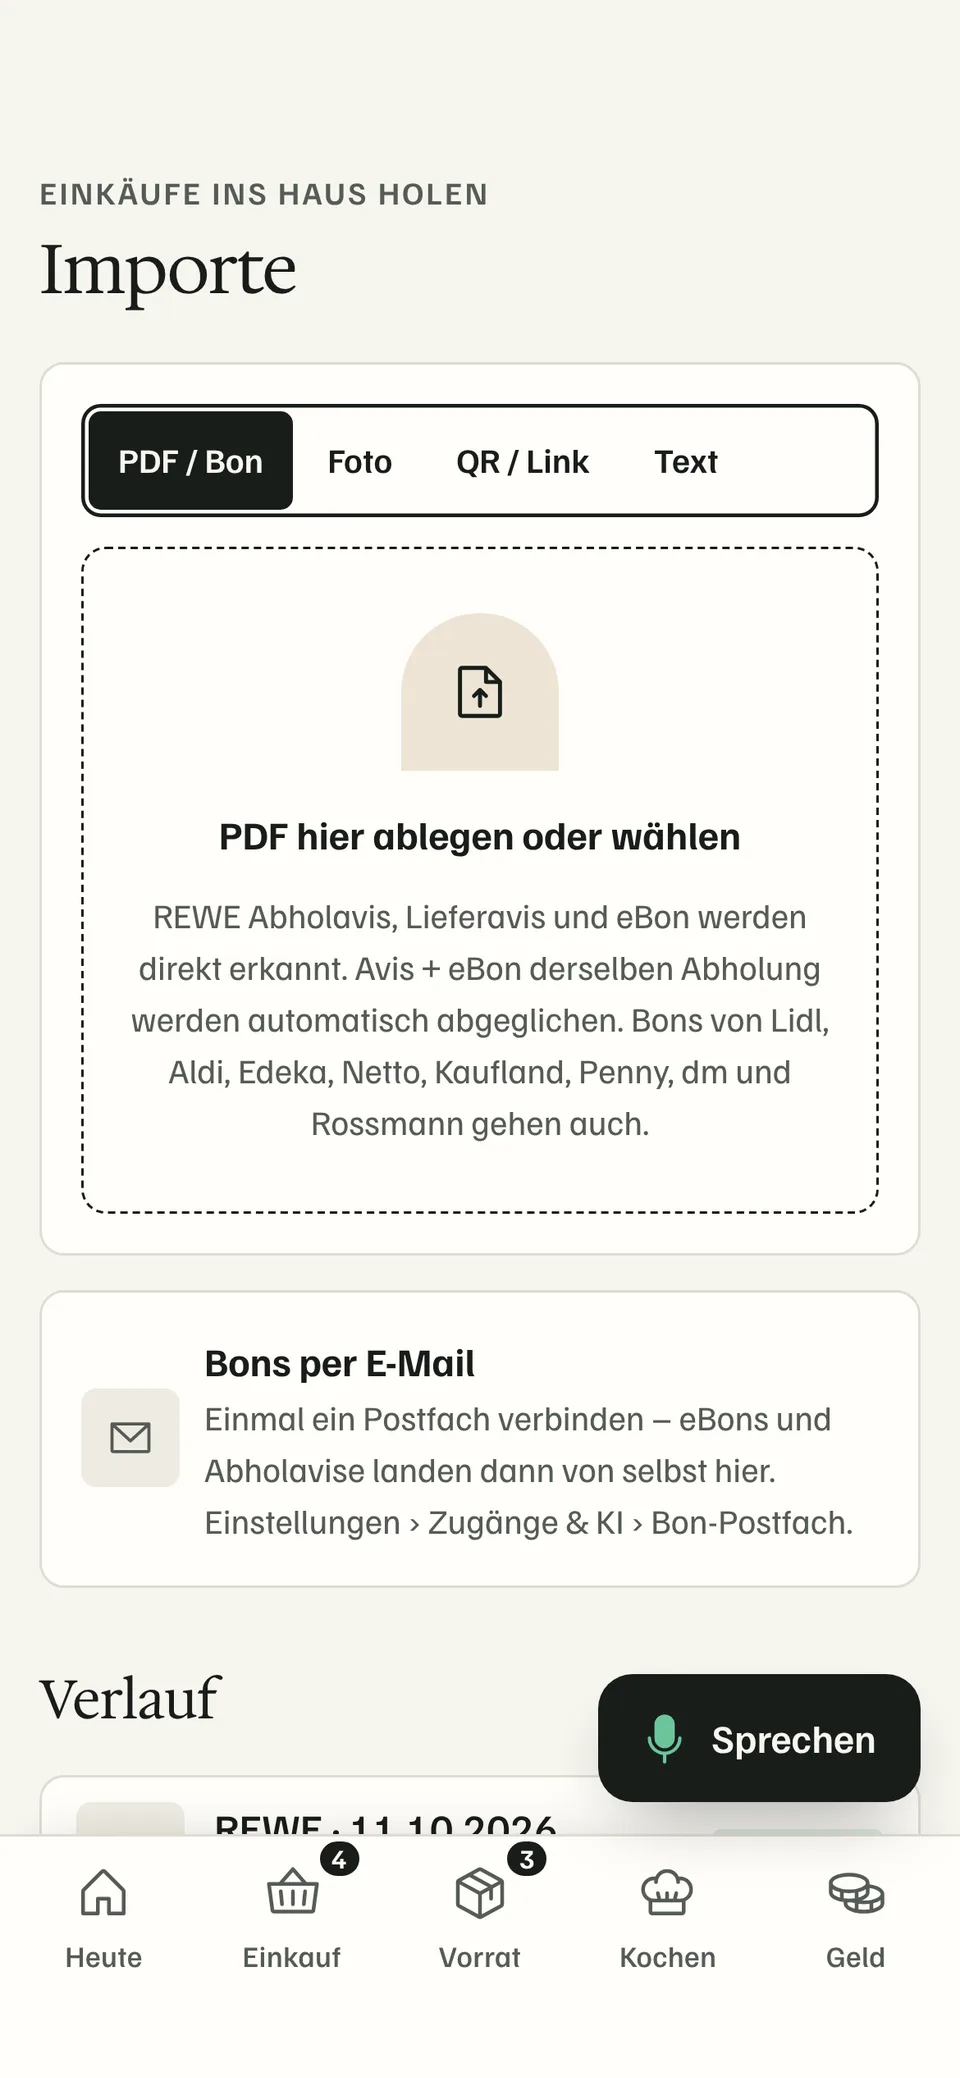
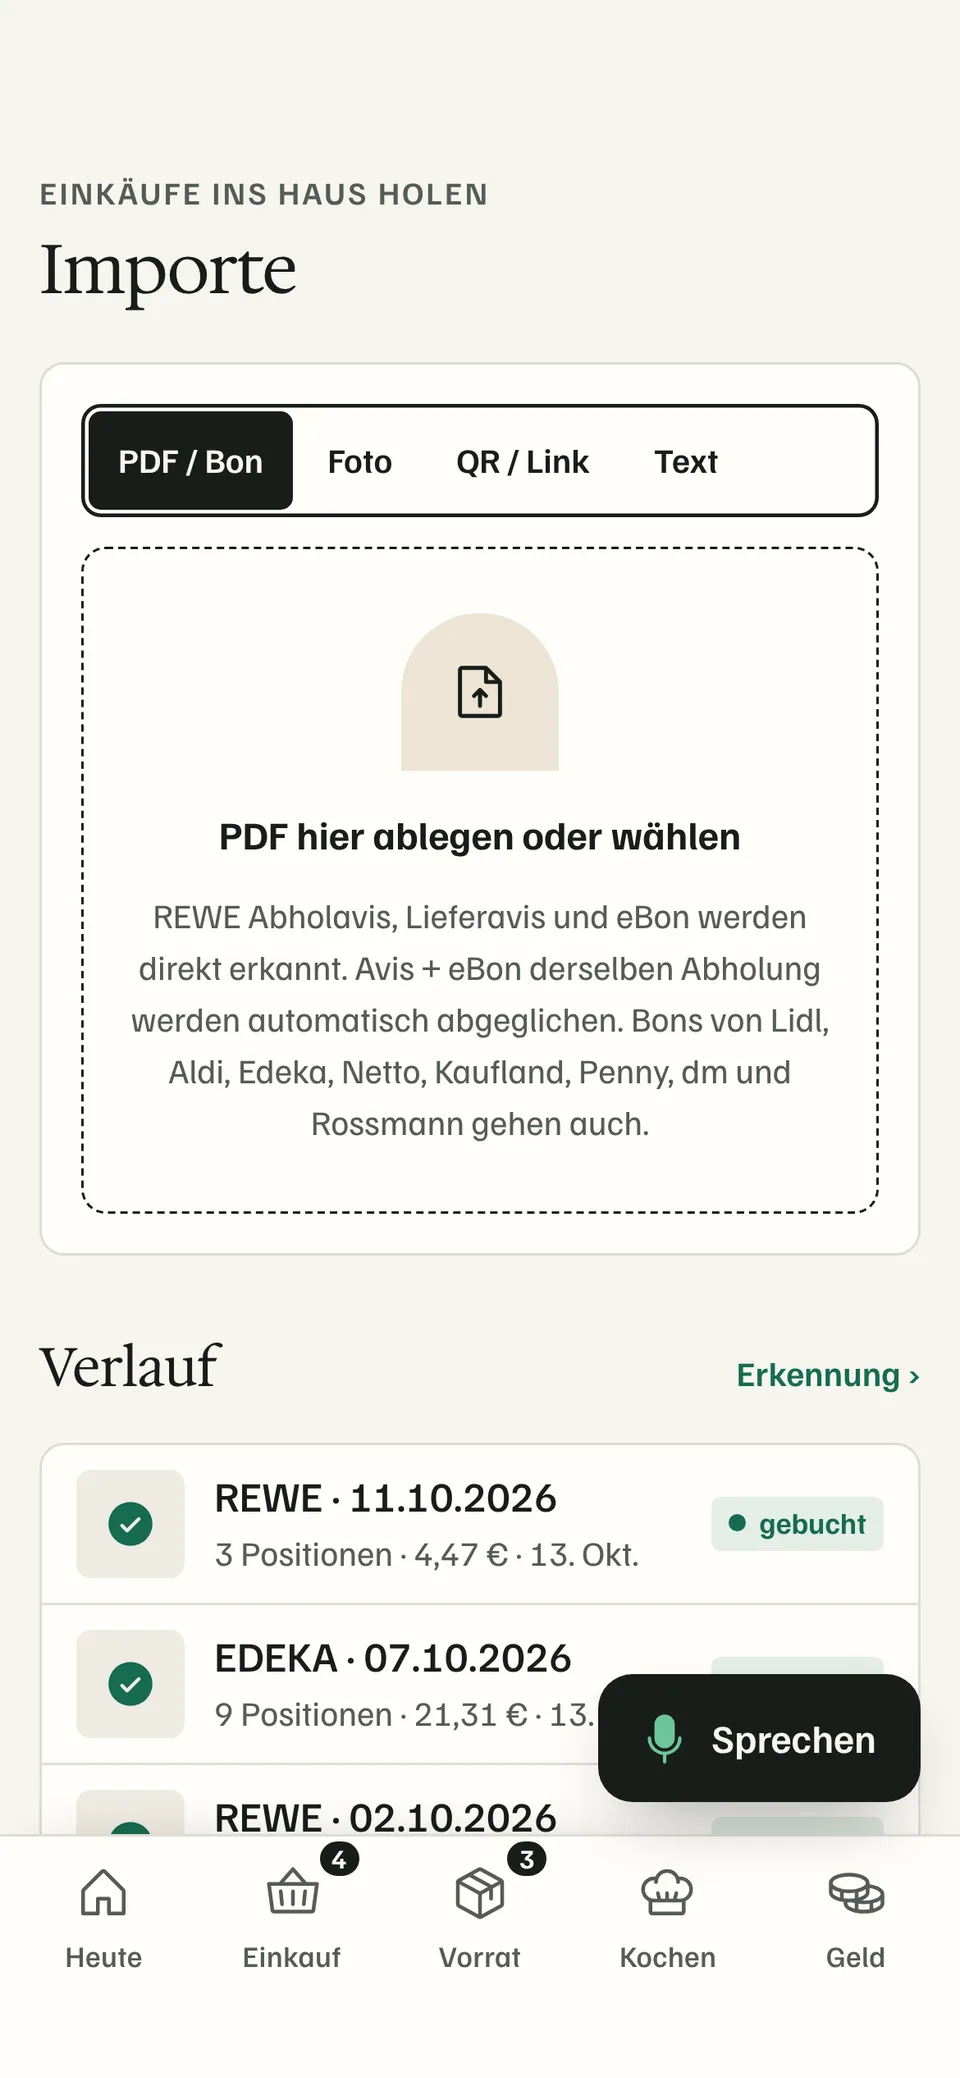
Website: fresh screenshots (cloud import page without the self-host mailbox card)
Claude-Session: https://claude.ai/code/session_01EPdWUDzQbbdSqW6G6f7M13

Changed region(s): [[0.0312, 0.6468, 0.9375, 0.8316], [0.2188, 0.8624, 0.5938, 0.8932], [0.125, 0.8624, 0.1562, 0.8932]]

diff --git a/site/de/index.html b/site/de/index.html
@@ -264,7 +264,7 @@
         </ol>
       </div>
       <div class="block-phone"><figure class="device">
-          <div class="device-screen"><span class="sb" aria-hidden="true">9:41</span><img src="../assets/shots/de/import-480.webp" srcset="../assets/shots/de/import-480.webp 480w, ../assets/shots/de/import-960.webp 960w" sizes="(min-width: 960px) 300px, 70vw" alt="Seite Importe: Bons als PDF, Foto, QR-Link oder Text, darunter der Verlauf mit gebuchten Bons von REWE und Aldi." width="390" height="844" loading="lazy" decoding="async"></div>
+          <div class="device-screen"><span class="sb" aria-hidden="true">9:41</span><img src="../assets/shots/de/import-480.webp" srcset="../assets/shots/de/import-480.webp 480w, ../assets/shots/de/import-960.webp 960w" sizes="(min-width: 960px) 300px, 70vw" alt="Seite Importe: Bons als PDF, Foto, QR-Link oder Text, darunter der Verlauf mit gebuchten Bons von REWE und EDEKA." width="390" height="844" loading="lazy" decoding="async"></div>
           <span class="island" aria-hidden="true"></span>
         </figure></div>
     </div>

diff --git a/site/index.html b/site/index.html
@@ -263,7 +263,7 @@
         </ol>
       </div>
       <div class="block-phone"><figure class="device">
-          <div class="device-screen"><span class="sb" aria-hidden="true">9:41</span><img src="assets/shots/en/import-480.webp" srcset="assets/shots/en/import-480.webp 480w, assets/shots/en/import-960.webp 960w" sizes="(min-width: 960px) 300px, 70vw" alt="Imports page: receipts as PDF, photo, QR link or text, with the history of booked receipts from Tesco and Aldi below." width="390" height="844" loading="lazy" decoding="async"></div>
+          <div class="device-screen"><span class="sb" aria-hidden="true">9:41</span><img src="assets/shots/en/import-480.webp" srcset="assets/shots/en/import-480.webp 480w, assets/shots/en/import-960.webp 960w" sizes="(min-width: 960px) 300px, 70vw" alt="Imports page: receipts as PDF, photo, QR link or text, with the history of booked receipts from Tesco and Sainsbury’s below." width="390" height="844" loading="lazy" decoding="async"></div>
           <span class="island" aria-hidden="true"></span>
         </figure></div>
     </div>
